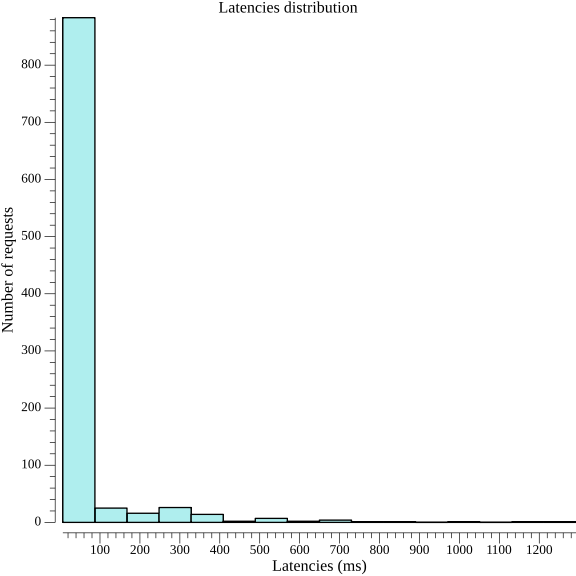
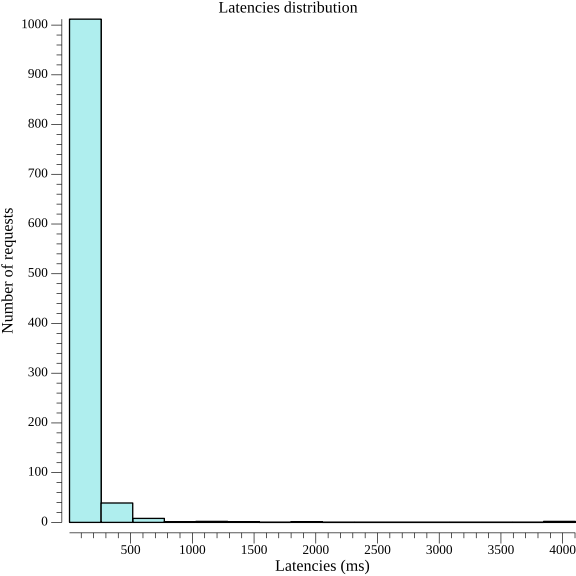
add fill color for graphs

diff --git a/cmd/plot.go b/cmd/plot.go
@@ -142,7 +142,7 @@ func plotLineThroughput(file string, times []Datapoint) {
 	p.Y.Tick.Marker = hplot.Ticks{N: 10, Format: "%.0f"}
 
 	l, err := plotter.NewLine(values)
-	l.Color = color.RGBA{R: 255, A: 255}
+	l.FillColor = color.RGBA{R: 175, G: 238, B: 238}
 	if err != nil {
 		panic(err)
 	}
@@ -232,10 +232,10 @@ func plotLineLatencies(file string, times []Datapoint) {
 	p.Y.Label.Text = "Latency (ms)"
 	p.Y.Tick.Marker = hplot.Ticks{N: 10, Format: "%.0f"}
 
-	plotLine(p, p99values, plotutil.Color(0), "p99")
-	plotLine(p, p95values, plotutil.Color(1), "p95")
-	plotLine(p, p90values, plotutil.Color(2), "p90")
-	plotLine(p, p50values, plotutil.Color(3), "p50")
+	plotLine(p, p99values, plotutil.DarkColors[0], plotutil.SoftColors[0], "p99")
+	plotLine(p, p95values, plotutil.DarkColors[1], plotutil.SoftColors[1], "p95")
+	plotLine(p, p90values, plotutil.DarkColors[2], plotutil.SoftColors[2], "p90")
+	plotLine(p, p50values, plotutil.DarkColors[3], plotutil.SoftColors[3], "p50")
 
 	p.Legend.Top = true
 
@@ -244,12 +244,13 @@ func plotLineLatencies(file string, times []Datapoint) {
 	}
 }
 
-func plotLine(p *plot.Plot, values plotter.XYs, color color.Color, name string) {
+func plotLine(p *plot.Plot, values plotter.XYs, color color.Color, fill color.Color, name string) {
 	l, err := plotter.NewLine(values)
 	l.Color = color
 	if err != nil {
 		panic(err)
 	}
+	l.FillColor = fill
 	p.Add(l)
 	p.Legend.Add(name, l)
 }

diff --git a/docs/graphs.md b/docs/graphs.md
@@ -10,7 +10,7 @@ Graphs are exported into the new subdirectory `graphs-<RFC3339 timestamp>` on pr
 
 For example, this command
 ```
-dnspyre -d 30s -c 2 --server 8.8.8.8 --plot . https://raw.githubusercontent.com/Tantalor93/dnspyre/master/data/1000-domains
+dnspyre -d 30s -c 2 --server 8.8.8.8 --plot . https://raw.githubusercontent.com/Tantalor93/dnspyre/master/data/10000-domains
 ```
 
 generates these graphs:
